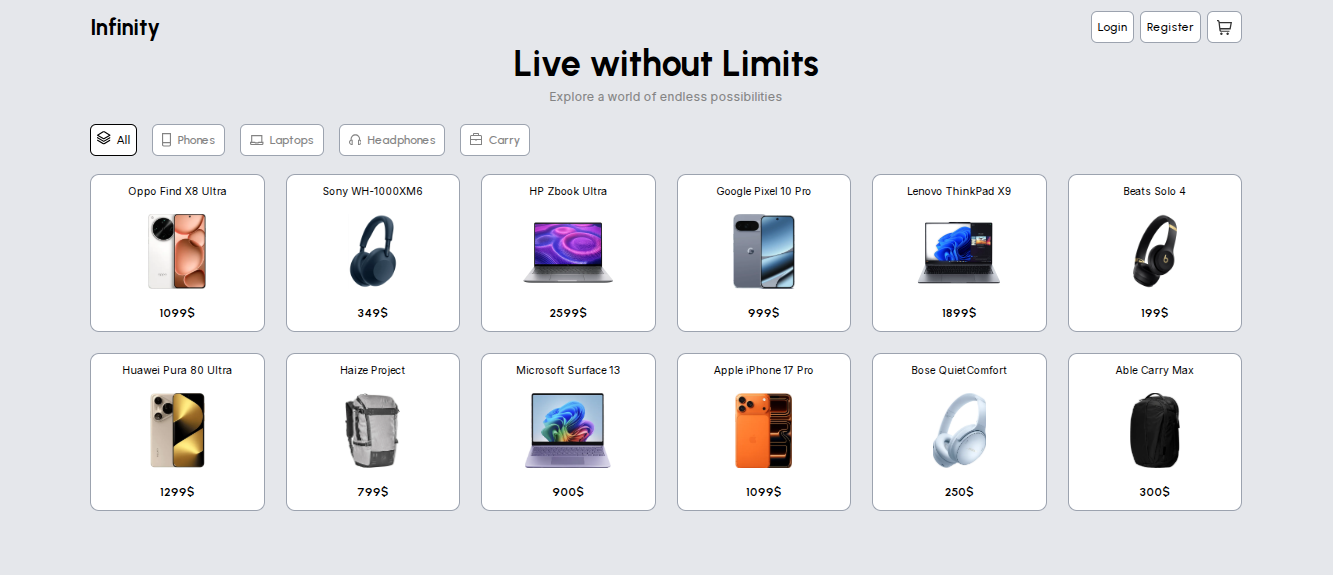
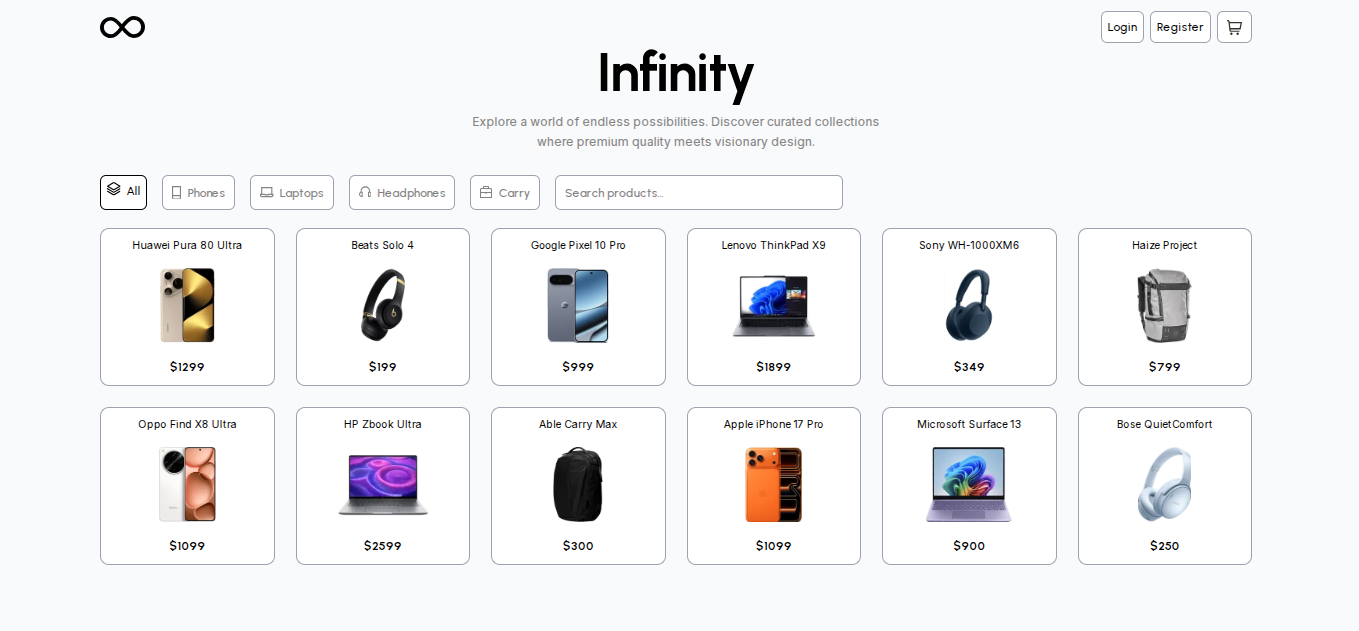
infinity updated

diff --git a/docs/index.html b/docs/index.html
@@ -1,1 +1,1 @@
-<!doctype html><html lang="en"><head><meta charset="utf-8"/><link rel="icon" href="./favicon.ico"/><meta name="viewport" content="width=device-width,initial-scale=1"/><meta name="theme-color" content="#000000"/><meta name="description" content="Web site created using create-react-app"/><link rel="stylesheet" href="https://unicons.iconscout.com/release/v4.0.0/css/line.css"><link rel="apple-touch-icon" href="./logo192.png"/><link rel="manifest" href="./manifest.json"/><title>ODM</title><script defer="defer" src="./static/js/main.418d5a99.js"></script><link href="./static/css/main.d87ef949.css" rel="stylesheet"></head><body><noscript>You need to enable JavaScript to run this app.</noscript><div id="root"></div></body></html>
+<!doctype html><html lang="en"><head><meta charset="utf-8"/><link rel="icon" href="./favicon.ico"/><meta name="viewport" content="width=device-width,initial-scale=1"/><meta name="theme-color" content="#000000"/><meta name="description" content="Web site created using create-react-app"/><link rel="stylesheet" href="https://unicons.iconscout.com/release/v4.0.0/css/line.css"><link rel="apple-touch-icon" href="./logo192.png"/><link rel="manifest" href="./manifest.json"/><title>ODM</title><script defer="defer" src="./static/js/main.4f617433.js"></script><link href="./static/css/main.d87ef949.css" rel="stylesheet"></head><body><noscript>You need to enable JavaScript to run this app.</noscript><div id="root"></div></body></html>